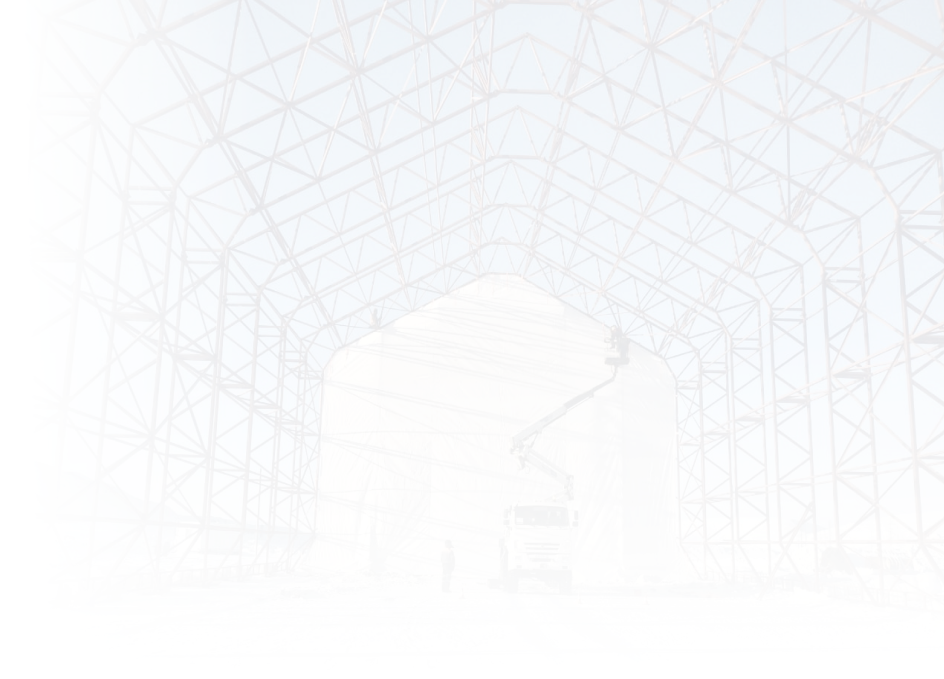
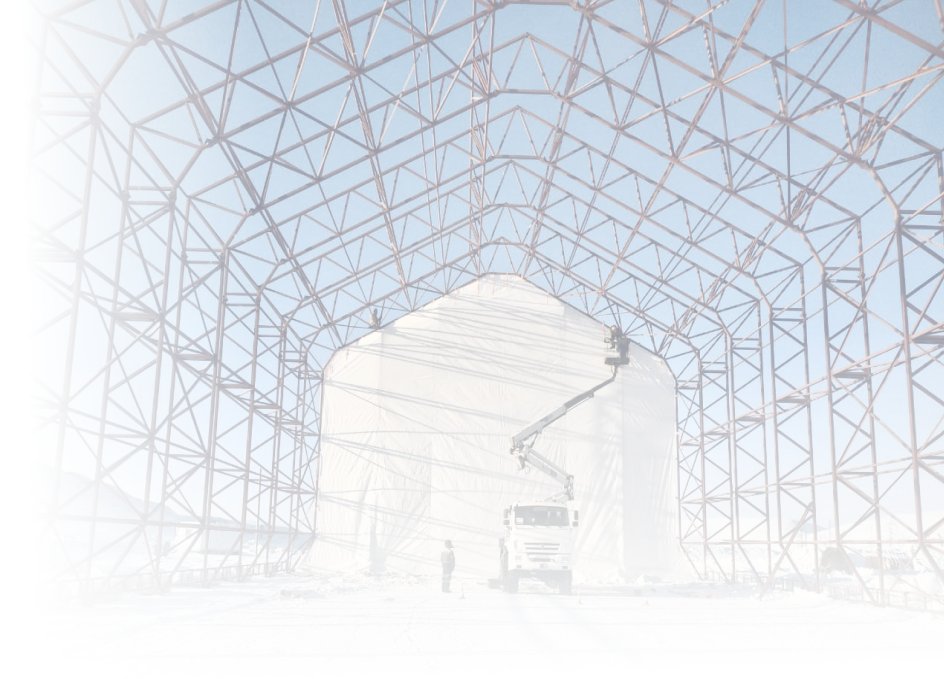
change bg in speed

diff --git a/style/style.css b/style/style.css
@@ -3699,6 +3699,7 @@ address {
 }
 .certificates {
   padding: 100px 0;
+  background: #fff linear-gradient(to top, #E2E5F2 0%, rgba(226, 229, 242, 0) 100%);
 }
 .certificates__inner {
   max-width: 995px;
